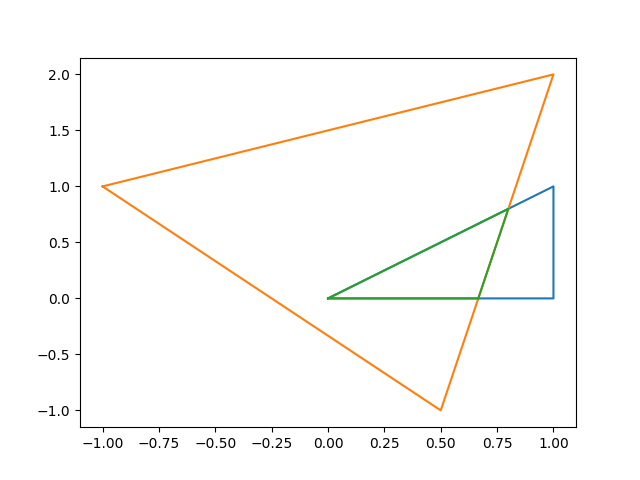
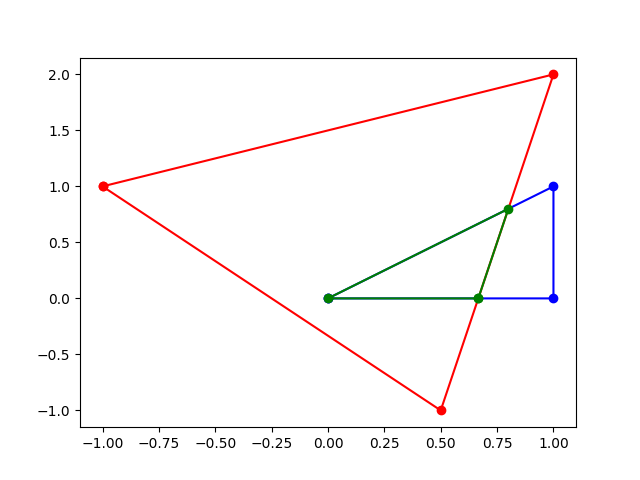
Add new tests and dot on images

diff --git a/main.py b/main.py
@@ -21,9 +21,9 @@ def main():
                 intersection = polygons[0].intersecting(polygons[1])
                 if conf.draw:
                     fig, ax = plt.subplots()
-                    polygons[0].draw(ax)
-                    polygons[1].draw(ax)
-                    intersection.draw(ax)
+                    polygons[0].draw(ax, 'b')
+                    polygons[1].draw(ax, 'r')
+                    intersection.draw(ax, 'g')
                     fig.savefig(conf.resultFolder + '/' + test[0])
                 resFile = open(conf.resultFolder + '/' + test[0] + '.txt', 'w')                  
                 resFile.write(str(intersection.vertexes))

diff --git a/polygon.py b/polygon.py
@@ -5,13 +5,14 @@ class polygon:
     def __init__(self, vertexes: list) -> None:
         self.vertexes = vertexes
 
-    def draw(self, ax: plt.axes) -> None:
+    def draw(self, ax: plt.axes, color: str) -> None:
         coord = self.vertexes.copy()
         if (len(coord) == 0):
             return
         coord.append(coord[0]) 
         xs, ys = zip(*coord)
-        ax.plot(xs, ys)
+        ax.plot(xs, ys, color)
+        ax.plot(xs, ys, color + 'o')
     
     def isInsite(self, p) -> bool:
         for i, vertex in enumerate(self.vertexes):
